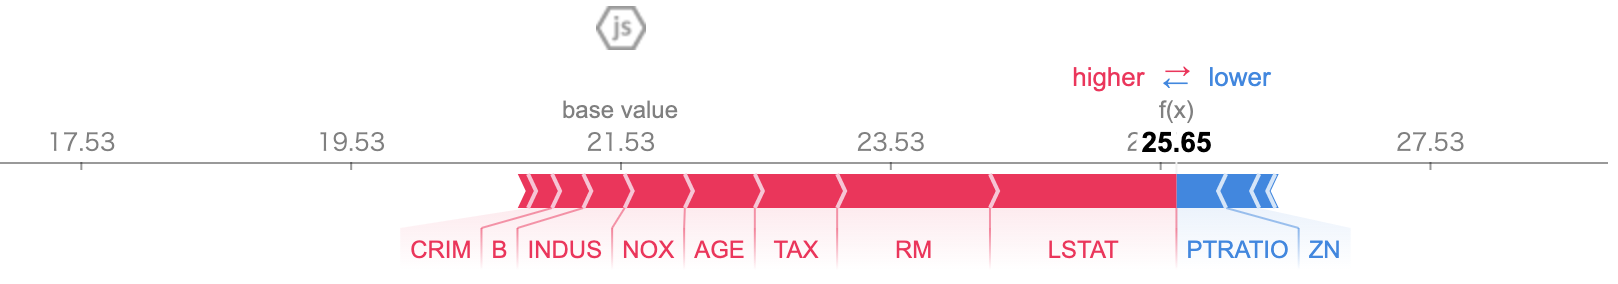
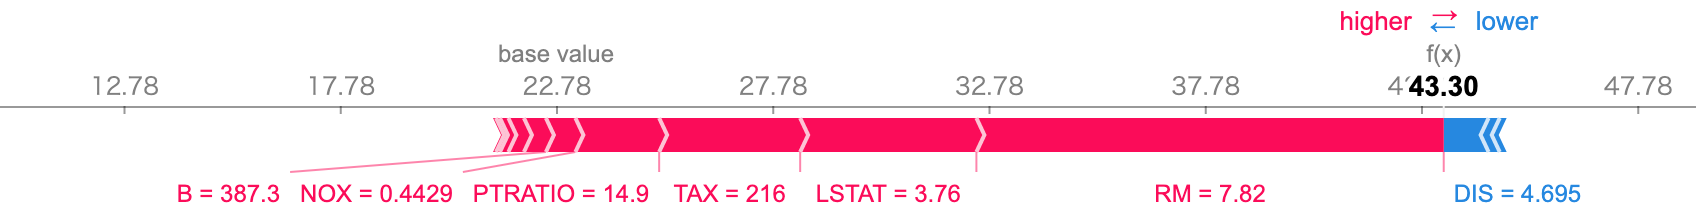
Update sample code of README

diff --git a/README.md b/README.md
@@ -14,24 +14,29 @@ $ pip install shappack
 
 ```python
 import shappack
+import numpy as np
 from sklearn.datasets import load_boston
 from sklearn.model_selection import train_test_split
 from sklearn.preprocessing import StandardScaler
 from sklearn.svm import SVR
+SEED = 123
+np.random.seed(SEED)
 
 # Prepare dataset
 boston = load_boston()
-X_train, X_test, y_train, y_test = train_test_split(boston["data"], boston["target"], test_size=0.2)
+X_train, X_test, y_train, y_test = train_test_split(boston["data"], boston["target"], test_size=0.2, random_state=SEED)
 scaler = StandardScaler()
-X_train = scaler.fit_transform(X_train)
-X_test = scaler.transform(X_test)
+X_train_std = scaler.fit_transform(X_train)
+X_test_std = scaler.transform(X_test)
+
 # Prepare model
-model = SVR(kernel="rbf")
-model.fit(X_train, y_train)
+model = SVR(kernel="rbf", C=40.0, epsilon=2.5)
+model.fit(X_train_std, y_train)
 
 # Coumpute SHAP value
-explainer = shappack.KernelExplainer(model.predict, X_train[0:100])
-shap_value = explainer.shap_values(X_test[1], n_workers=-1)
+i = 2
+explainer = shappack.KernelExplainer(model.predict, X_train_std[0:100])
+shap_value = explainer.shap_values(X_test_std[i], n_workers=-1)
 ```
 
 The usage of ShapPack is almost the same as that of [slundberg/shap](https://github.com/slundberg/shap).
@@ -43,10 +48,10 @@ For now, ShapPack does not have own visualization mechanism, so it is necessary 
 ```python
 import shap
 shap.initjs()
-shap.force_plot(explainer.base_val[0], shap_value, boston.feature_names)
+shap.force_plot(explainer.base_val[0], shap_value, X_test[i], boston.feature_names)
 ```
 
-<img src="./docs/images/boston-force-plot.png" alt="boston-force-plot" width="700">
+<img src="./docs/images/boston-force-plot.png" alt="boston-force-plot" width="750">
 
 ## License
 
